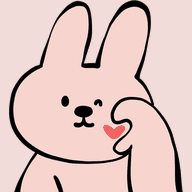
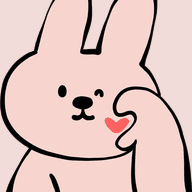
Figuren auf den Rumpf gezoomt, keine Pastellstreifen mehr

Changed region(s): [[0.0, 0.0, 1.0, 1.0], [0.25, 0.9062, 0.3438, 1.0], [0.25, 0.0, 0.2812, 0.0625]]

diff --git a/index.html b/index.html
@@ -3355,7 +3355,7 @@ const AVATARE = 12;
 /* Die Versionsangabe hängt am Namen, damit ein überarbeitetes Motiv auch
    bei Geräten ankommt, die die alte Datei schon im Zwischenspeicher haben.
    Bei jeder Änderung an den Bildern wird die Zahl erhöht. */
-const AV_STAND = 3;
+const AV_STAND = 4;
 function avDatei(n){ return 'av-' + n + '.png?v=' + AV_STAND; }
 function avZufall(){
   /* Aus Vorname und Geburtsdatum eine Zahl bilden — gleicher Mensch,
